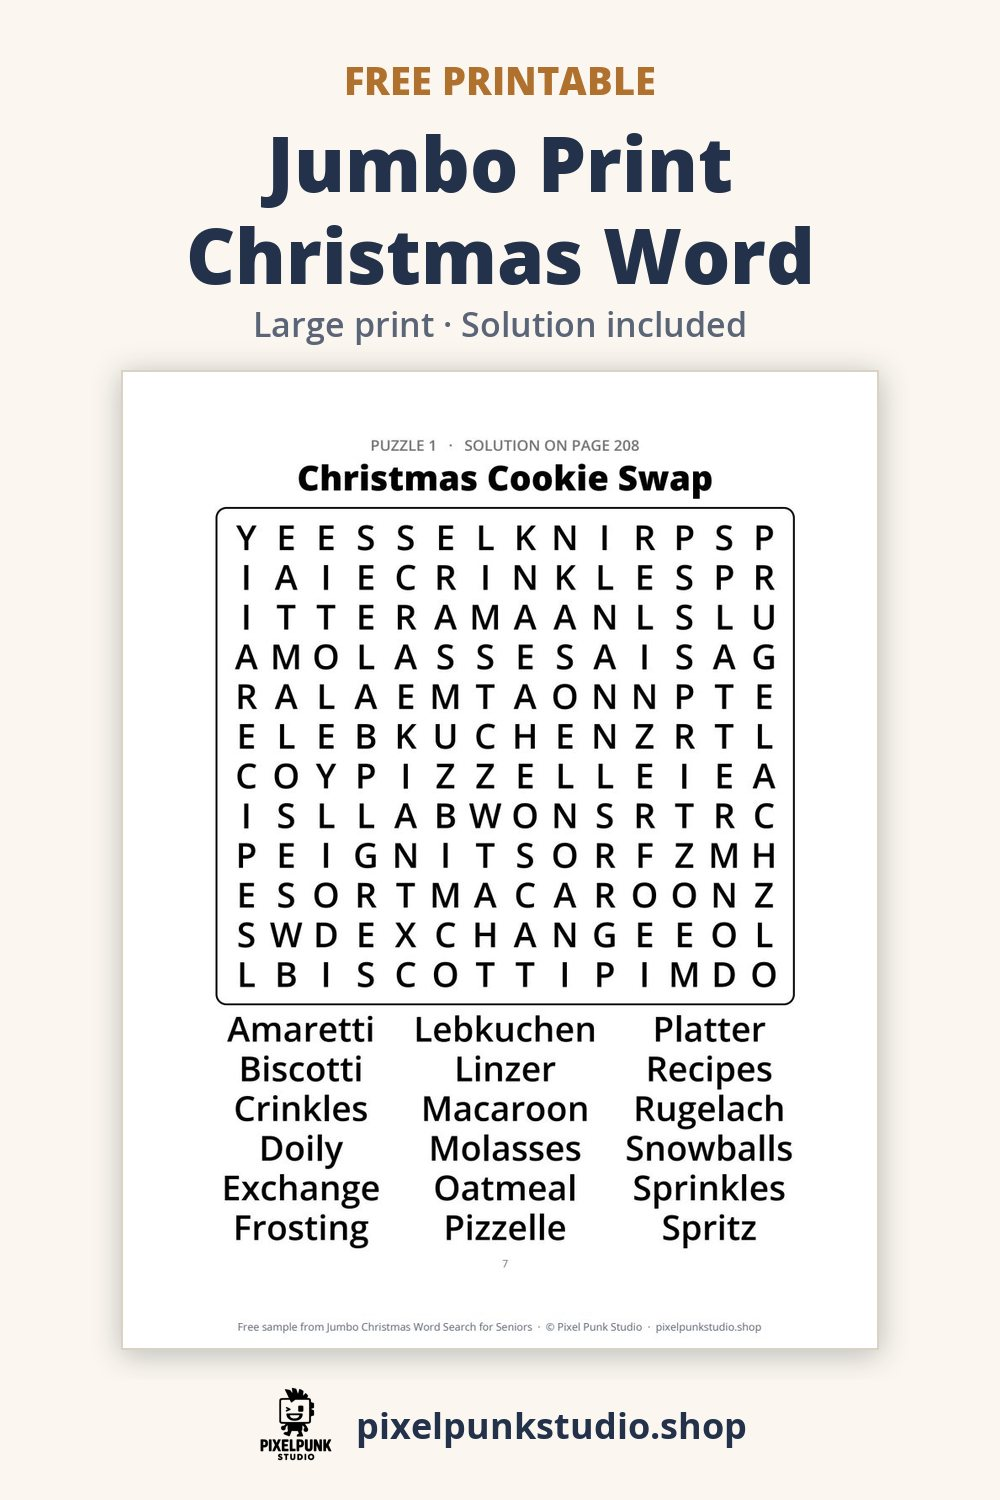
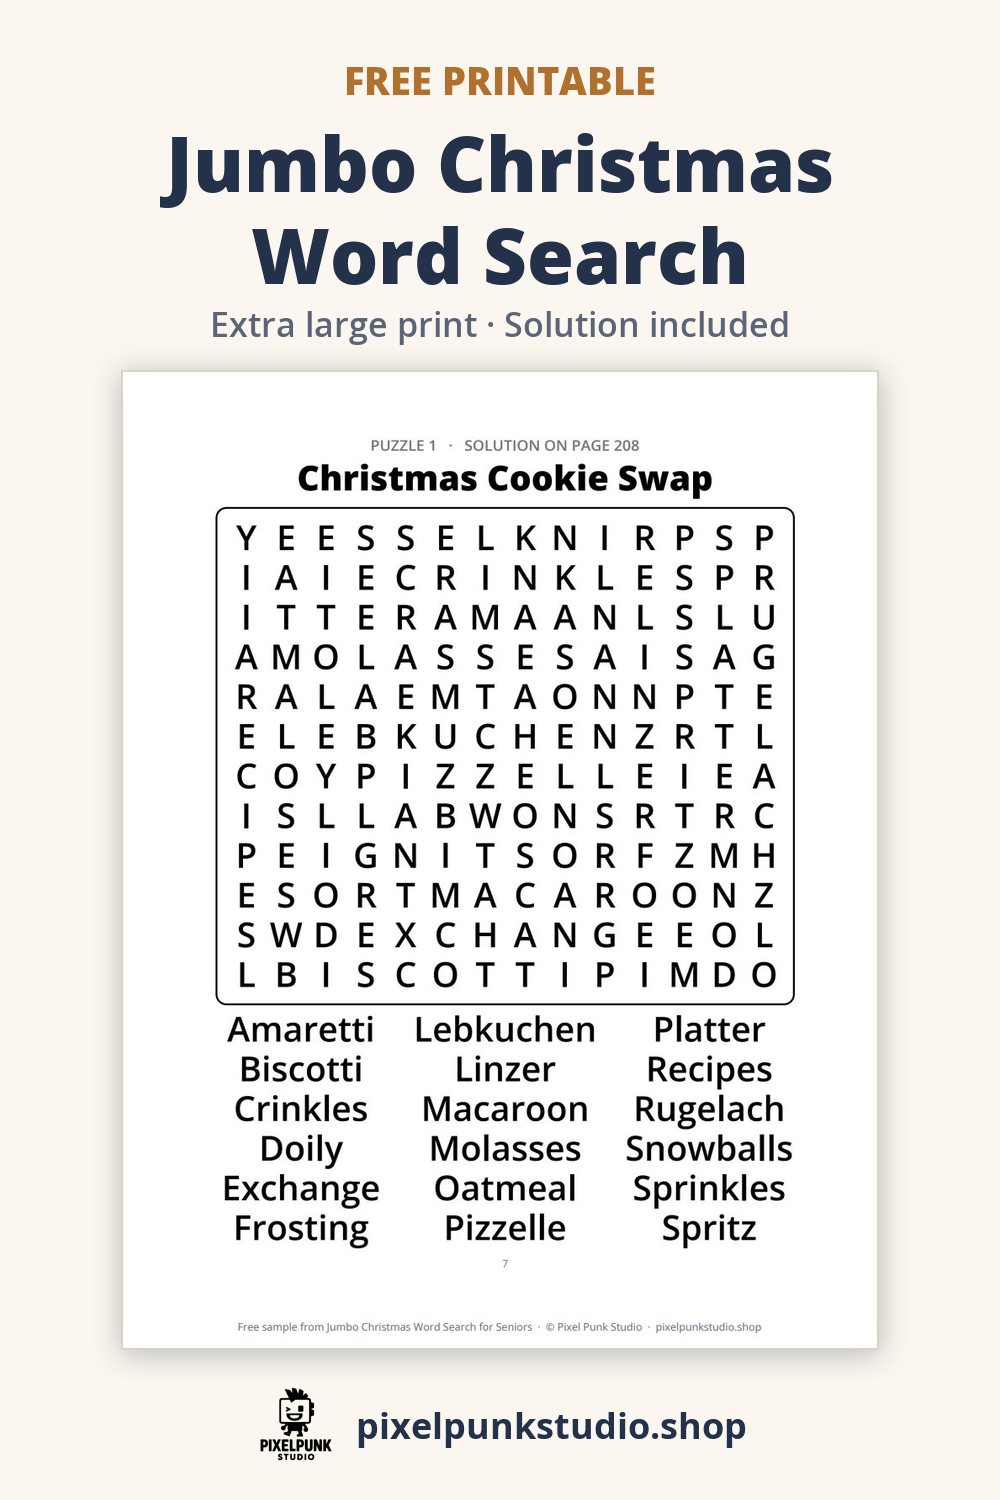
Update catalog

Changed region(s): [[0.155, 0.092, 0.837, 0.2453]]

diff --git a/free-printable-jumbo-christmas-word-search.html b/free-printable-jumbo-christmas-word-search.html
@@ -19,7 +19,7 @@
 <link rel="alternate" type="application/rss+xml" title="Pixel Punk Studio blog" href="https://pixelpunkstudio.shop/feed.xml">
 <link rel="stylesheet" href="style.css?v=f5bd9f60">
 <script type="application/ld+json">{"@context": "https://schema.org", "@type": "CreativeWork", "name": "Free Printable Jumbo Christmas Word Search for Seniors (Extra Large Print)", "description": "Christmas Cookie Swap: an extra large print Christmas word search in 30-point letters with 18 words, from spritz, pizzelle and biscotti to sprinkles, frosting and the cookie exchange. Free to download and print at home on letter paper.", "url": "https://pixelpunkstudio.shop/free-printable-jumbo-christmas-word-search.html", "image": ["https://pixelpunkstudio.shop/media/printables/jumbo-christmas.jpg", "https://pixelpunkstudio.shop/media/pins/jumbo-christmas.jpg"], "isAccessibleForFree": true, "inLanguage": "en-US", "encodingFormat": "application/pdf", "author": {"@type": "Organization", "name": "Pixel Punk Studio", "url": "https://pixelpunkstudio.shop/"}, "about": [{"@context": "https://schema.org", "@type": "Book", "name": "Jumbo Christmas Word Search for Seniors", "description": "100 extra large print Christmas puzzles in font size 30, with a fun fact beside every puzzle", "image": "https://pixelpunkstudio.shop/covers/jumbo-christmas.jpg", "author": {"@type": "Organization", "name": "Pixel Punk Studio", "url": "https://pixelpunkstudio.shop/"}, "publisher": {"@type": "Organization", "name": "Pixel Punk Studio"}, "bookFormat": "https://schema.org/Paperback", "inLanguage": "en-US", "url": "https://www.amazon.com/dp/B0HPL7DGYX", "sameAs": "https://www.amazon.com/dp/B0HPL7DGYX"}]}</script>
-<script type="application/ld+json">{"@context": "https://schema.org", "@type": "BreadcrumbList", "itemListElement": [{"@type": "ListItem", "position": 1, "name": "Pixel Punk Studio", "item": "https://pixelpunkstudio.shop/"}, {"@type": "ListItem", "position": 2, "name": "Free printables", "item": "https://pixelpunkstudio.shop/free-printables.html"}, {"@type": "ListItem", "position": 3, "name": "Jumbo Print Christmas Word Search", "item": "https://pixelpunkstudio.shop/free-printable-jumbo-christmas-word-search.html"}]}</script>
+<script type="application/ld+json">{"@context": "https://schema.org", "@type": "BreadcrumbList", "itemListElement": [{"@type": "ListItem", "position": 1, "name": "Pixel Punk Studio", "item": "https://pixelpunkstudio.shop/"}, {"@type": "ListItem", "position": 2, "name": "Free printables", "item": "https://pixelpunkstudio.shop/free-printables.html"}, {"@type": "ListItem", "position": 3, "name": "Jumbo Christmas Word Search", "item": "https://pixelpunkstudio.shop/free-printable-jumbo-christmas-word-search.html"}]}</script>
 </head><body><main class="wide">
 <header class="top">
   <a class="home" href="./"><img src="logo.png" alt="Pixel Punk Studio logo, back to the home page" width="48" height="48"></a>

diff --git a/word-search-difficulty-levels.html b/word-search-difficulty-levels.html
@@ -142,7 +142,7 @@ Search in large print, and Bug Hunt Word Search for young solvers.</p>
   <h2>Free printables to try</h2>
   <div class="grid printables"><a class="printable" href="free-printable-jumbo-christmas-word-search.html">
   <img src="media/printables/jumbo-christmas.jpg" alt="Free Printable Jumbo Christmas Word Search for Seniors (Extra Large Print)" loading="lazy">
-  <span>Jumbo Print Christmas Word Search</span>
+  <span>Jumbo Christmas Word Search</span>
 </a>
 <a class="printable" href="free-printable-christmas-word-search.html">
   <img src="media/printables/christmas-word-search.jpg" alt="Free Printable Christmas Word Search for Adults (Large Print)" loading="lazy">

diff --git a/christmas-activities-for-seniors.html b/christmas-activities-for-seniors.html
@@ -147,7 +147,7 @@ Nativity and the Nutcracker to Christmas around the world.</p>
   <h2>Free printables to try</h2>
   <div class="grid printables"><a class="printable" href="free-printable-jumbo-christmas-word-search.html">
   <img src="media/printables/jumbo-christmas.jpg" alt="Free Printable Jumbo Christmas Word Search for Seniors (Extra Large Print)" loading="lazy">
-  <span>Jumbo Print Christmas Word Search</span>
+  <span>Jumbo Christmas Word Search</span>
 </a>
 <a class="printable" href="free-printable-christmas-word-search.html">
   <img src="media/printables/christmas-word-search.jpg" alt="Free Printable Christmas Word Search for Adults (Large Print)" loading="lazy">

diff --git a/free-printables.html b/free-printables.html
@@ -68,7 +68,7 @@
   <span>Cozy Hygge Word Search</span>
 </a><a class="printable" href="free-printable-jumbo-christmas-word-search.html">
   <img src="media/printables/jumbo-christmas.jpg" alt="Free Printable Jumbo Christmas Word Search for Seniors (Extra Large Print)" loading="lazy">
-  <span>Jumbo Print Christmas Word Search</span>
+  <span>Jumbo Christmas Word Search</span>
 </a><a class="printable" href="free-printable-cardinal-christmas-coloring-page.html">
   <img src="media/printables/cozy-christmas-coloring.jpg" alt="Free Printable Cardinal Christmas Coloring Page for Adults (Bold and Easy)" loading="lazy">
   <span>Cardinals Christmas Coloring Page</span>

diff --git a/free-printable-christmas-word-search.html b/free-printable-christmas-word-search.html
@@ -105,7 +105,7 @@
 </a>
 <a class="printable" href="free-printable-jumbo-christmas-word-search.html">
   <img src="media/printables/jumbo-christmas.jpg" alt="Free Printable Jumbo Christmas Word Search for Seniors (Extra Large Print)" loading="lazy">
-  <span>Jumbo Print Christmas Word Search</span>
+  <span>Jumbo Christmas Word Search</span>
 </a>
 <a class="printable" href="free-printable-cardinal-christmas-coloring-page.html">
   <img src="media/printables/cozy-christmas-coloring.jpg" alt="Free Printable Cardinal Christmas Coloring Page for Adults (Bold and Easy)" loading="lazy">

diff --git a/free-printable-halloween-word-search.html b/free-printable-halloween-word-search.html
@@ -93,7 +93,7 @@
 </a>
 <a class="printable" href="free-printable-jumbo-christmas-word-search.html">
   <img src="media/printables/jumbo-christmas.jpg" alt="Free Printable Jumbo Christmas Word Search for Seniors (Extra Large Print)" loading="lazy">
-  <span>Jumbo Print Christmas Word Search</span>
+  <span>Jumbo Christmas Word Search</span>
 </a>
 <a class="printable" href="free-printable-cardinal-christmas-coloring-page.html">
   <img src="media/printables/cozy-christmas-coloring.jpg" alt="Free Printable Cardinal Christmas Coloring Page for Adults (Bold and Easy)" loading="lazy">

diff --git a/free-printable-hygge-word-search.html b/free-printable-hygge-word-search.html
@@ -97,7 +97,7 @@
 </a>
 <a class="printable" href="free-printable-jumbo-christmas-word-search.html">
   <img src="media/printables/jumbo-christmas.jpg" alt="Free Printable Jumbo Christmas Word Search for Seniors (Extra Large Print)" loading="lazy">
-  <span>Jumbo Print Christmas Word Search</span>
+  <span>Jumbo Christmas Word Search</span>
 </a>
 <a class="printable" href="free-printable-cardinal-christmas-coloring-page.html">
   <img src="media/printables/cozy-christmas-coloring.jpg" alt="Free Printable Cardinal Christmas Coloring Page for Adults (Bold and Easy)" loading="lazy">

diff --git a/free-printable-nativity-word-search.html b/free-printable-nativity-word-search.html
@@ -97,7 +97,7 @@
 </a>
 <a class="printable" href="free-printable-jumbo-christmas-word-search.html">
   <img src="media/printables/jumbo-christmas.jpg" alt="Free Printable Jumbo Christmas Word Search for Seniors (Extra Large Print)" loading="lazy">
-  <span>Jumbo Print Christmas Word Search</span>
+  <span>Jumbo Christmas Word Search</span>
 </a>
 <a class="printable" href="free-printable-cardinal-christmas-coloring-page.html">
   <img src="media/printables/cozy-christmas-coloring.jpg" alt="Free Printable Cardinal Christmas Coloring Page for Adults (Bold and Easy)" loading="lazy">

diff --git a/free-printable-thanksgiving-word-search.html b/free-printable-thanksgiving-word-search.html
@@ -97,7 +97,7 @@
 </a>
 <a class="printable" href="free-printable-jumbo-christmas-word-search.html">
   <img src="media/printables/jumbo-christmas.jpg" alt="Free Printable Jumbo Christmas Word Search for Seniors (Extra Large Print)" loading="lazy">
-  <span>Jumbo Print Christmas Word Search</span>
+  <span>Jumbo Christmas Word Search</span>
 </a>
 <a class="printable" href="free-printable-cardinal-christmas-coloring-page.html">
   <img src="media/printables/cozy-christmas-coloring.jpg" alt="Free Printable Cardinal Christmas Coloring Page for Adults (Bold and Easy)" loading="lazy">

diff --git a/free-printable-bug-word-search-for-kids.html b/free-printable-bug-word-search-for-kids.html
@@ -101,7 +101,7 @@
 </a>
 <a class="printable" href="free-printable-jumbo-christmas-word-search.html">
   <img src="media/printables/jumbo-christmas.jpg" alt="Free Printable Jumbo Christmas Word Search for Seniors (Extra Large Print)" loading="lazy">
-  <span>Jumbo Print Christmas Word Search</span>
+  <span>Jumbo Christmas Word Search</span>
 </a></div>
 </section>
 <section id="newsletter" class="band">

diff --git a/free-printable-retirement-word-search.html b/free-printable-retirement-word-search.html
@@ -101,7 +101,7 @@
 </a>
 <a class="printable" href="free-printable-jumbo-christmas-word-search.html">
   <img src="media/printables/jumbo-christmas.jpg" alt="Free Printable Jumbo Christmas Word Search for Seniors (Extra Large Print)" loading="lazy">
-  <span>Jumbo Print Christmas Word Search</span>
+  <span>Jumbo Christmas Word Search</span>
 </a></div>
 </section>
 <section id="newsletter" class="band">

diff --git a/free-printable-winter-word-search.html b/free-printable-winter-word-search.html
@@ -101,7 +101,7 @@
 </a>
 <a class="printable" href="free-printable-jumbo-christmas-word-search.html">
   <img src="media/printables/jumbo-christmas.jpg" alt="Free Printable Jumbo Christmas Word Search for Seniors (Extra Large Print)" loading="lazy">
-  <span>Jumbo Print Christmas Word Search</span>
+  <span>Jumbo Christmas Word Search</span>
 </a></div>
 </section>
 <section id="newsletter" class="band">
